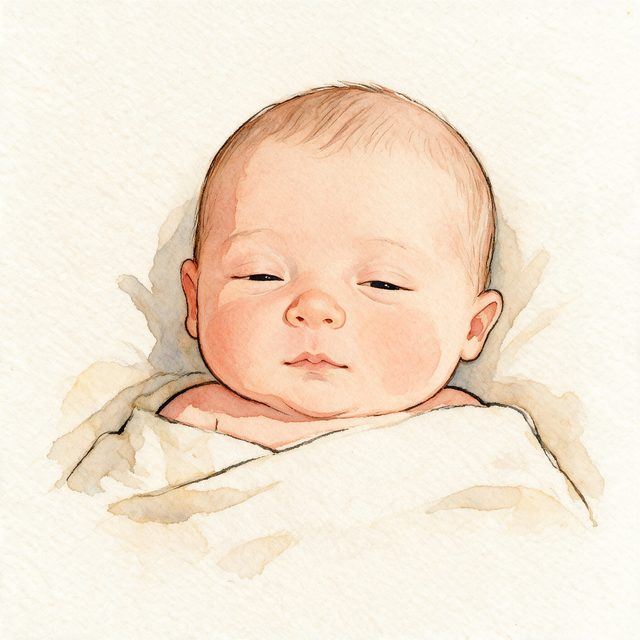
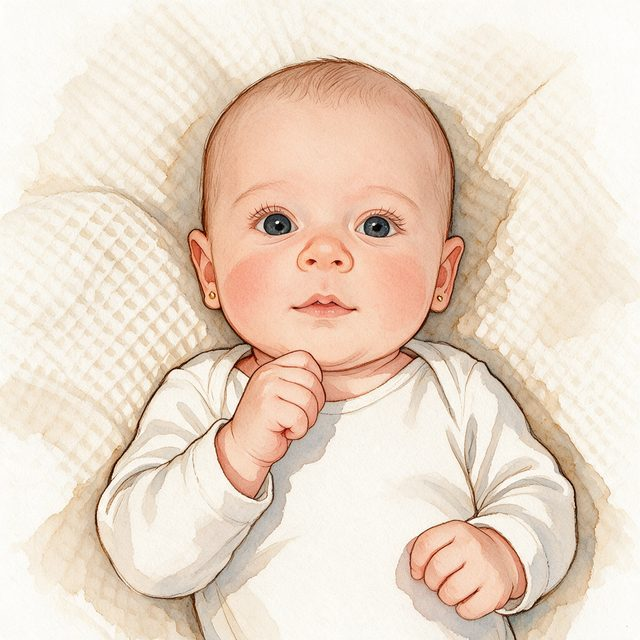
Carla con 3 meses y título «Cena de Navidad 2026»

diff --git a/index.html b/index.html
@@ -4,7 +4,7 @@
 <meta charset="utf-8">
 <meta name="viewport" content="width=device-width, initial-scale=1, viewport-fit=cover">
 <meta name="robots" content="noindex">
-<title>Amigo invisible · la familia de Carla</title>
+<title>Amigo invisible · Cena de Navidad 2026</title>
 <link rel="preconnect" href="https://fonts.googleapis.com">
 <link rel="preconnect" href="https://fonts.gstatic.com" crossorigin>
 <link rel="stylesheet" href="https://fonts.googleapis.com/css2?family=Mulish:wght@500;600;800&display=swap">
@@ -169,7 +169,7 @@ h2{margin:0;font-size:clamp(24px,7vw,32px);font-weight:800;line-height:1.15}
   <header class="cabecera">
     <img class="ilustracion" src="img/portada.jpg" alt="Sobres de acuarela con lacre, cinta y rodajas de naranja">
     <h1>Amigo invisible</h1>
-    <p class="sub">de la familia de Carla · pulsa tu nombre</p>
+    <p class="sub">Cena de Navidad 2026 · pulsa tu nombre</p>
   </header>
   <div class="rejilla" id="rejilla"></div>
 </section>
